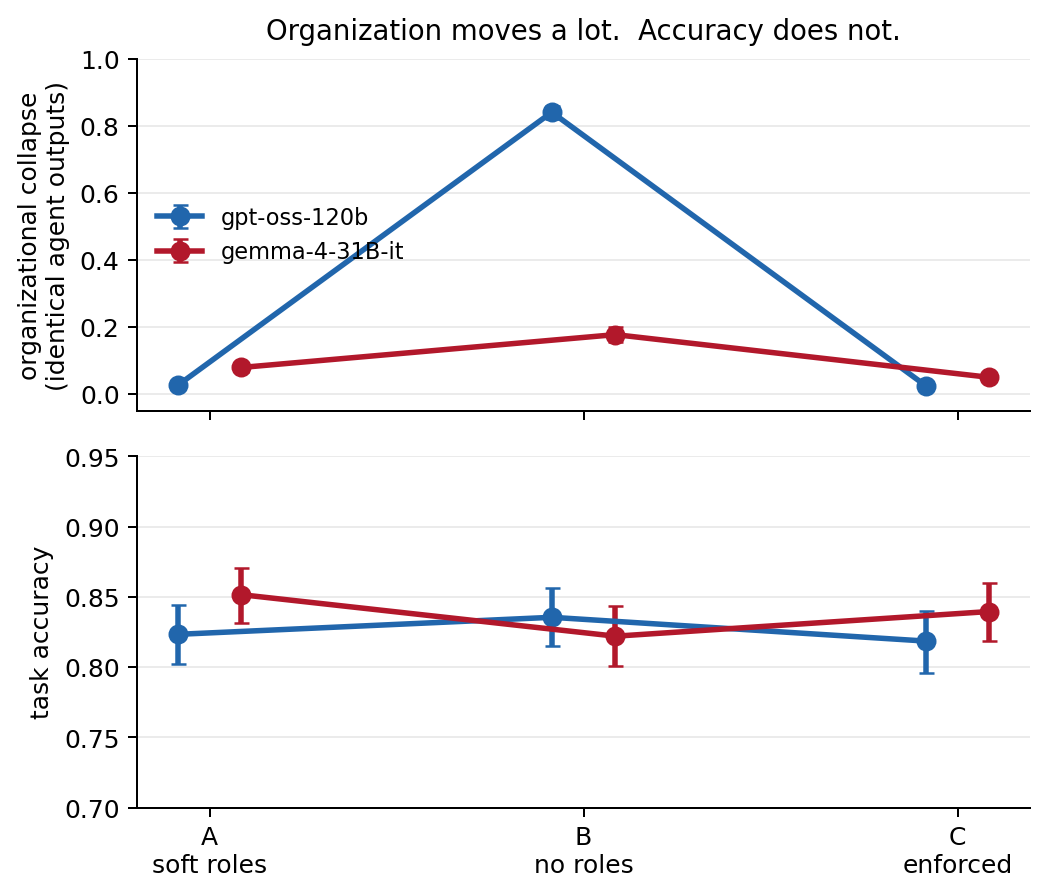
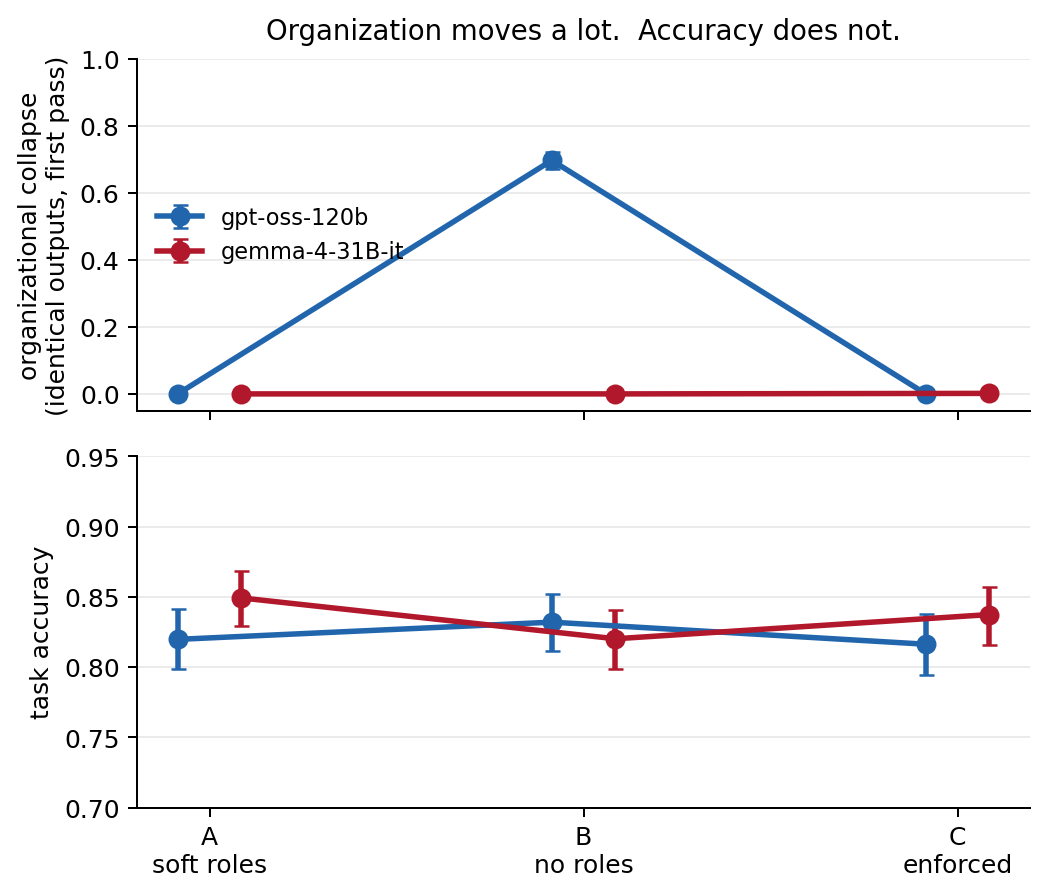
OVERLAP: fourth group paper 2607.15388 found on the SAME corpus/actor/architecture — verified, scoped, framing constrained to the actor-dependent inversion

diff --git a/analysis/scripts/x3_functional_collapse.py b/analysis/scripts/x3_functional_collapse.py
@@ -297,6 +297,18 @@ def analyse_cycle(job: dict) -> dict:
     # ---- INERTNESS ---------------------------------------------------------
     o["exec_inert"] = int(o["new_eq_E_distinct"] == 0 and o["ans_differs_E"] == 0)
     o["rev_inert"] = int(o["new_eq_R_distinct"] == 0 and o["ans_differs_R"] == 0)
+    # DESIGN-NEUTRAL variants.  The answer clause is NOT comparable across arms:
+    # Arm A's planner prompt forbids an answer (0.0/17.3% carry one), Arm B tells
+    # every agent to emit one (~90-98%), Arm C forbids it by schema for planner
+    # and reviewer (0%).  So a no-answer-change is near-automatic in A and C and
+    # near-impossible in B, for reasons of prompt design, not behaviour.  These
+    # variants drop that clause and use only channels every arm can populate.
+    o["exec_inert_eqonly"] = int(o["new_eq_E_distinct"] == 0)
+    o["rev_inert_eqonly"] = int(o["new_eq_R_distinct"] == 0)
+    o["exec_inert_tok10"] = int((o["new_tok_E"] if o["new_tok_E"] == o["new_tok_E"] else 0) < 0.10)
+    o["rev_inert_tok10"] = int((o["new_tok_R"] if o["new_tok_R"] == o["new_tok_R"] else 0) < 0.10)
+    o["exec_inert_neutral"] = int(o["exec_inert_eqonly"] == 1 and o["exec_inert_tok10"] == 1)
+    o["rev_inert_neutral"] = int(o["rev_inert_eqonly"] == 1 and o["rev_inert_tok10"] == 1)
     o["exec_inert_strong"] = int(o["exec_inert"] == 1 and (o["new_tok_E"] or 0) < 0.05)
     o["rev_inert_strong"] = int(o["rev_inert"] == 1 and (o["new_tok_R"] or 0) < 0.05
                                 and o["has_novel_critique_R"] == 0)

diff --git a/analysis/scripts/mk_fig1_dissociation.py b/analysis/scripts/mk_fig1_dissociation.py
@@ -19,8 +19,13 @@ df = pd.DataFrame(rows)
 df["actor"] = df.actor_model.str.split("/").str[-1]
 df["c0"] = df.correct.fillna(0)
 def coll(r):
+    """PRIMARY rule: first pipeline pass only (first 3 role messages).
+    The all-message rule is confounded with trajectory length -- longer
+    trajectories get more chances to collapse, and the actors differ in
+    length. See COLLAPSE_MEASUREMENT_AUDIT.md round 2."""
     h = [m.get("response_sha256_12") for m in (r.get("messages") or [])
-         if m.get("role") in ("planner","executor","reviewer") and m.get("response_sha256_12")]
+         if m.get("role") in ("planner","executor","reviewer")
+         and m.get("response_sha256_12")][:3]
     return (len(set(h)) < len(h)) if len(h) >= 2 else np.nan
 df["collapse"] = [coll(r) for r in rows]
 
@@ -48,7 +53,7 @@ for k,a in enumerate(ACT):
         axis.errorbar(x+off, m, yerr=[lo,hi], marker="o", ms=7, lw=2.2,
                       capsize=3, color=COL[a], label=a if i==0 else None)
 
-ax[0].set_ylabel("organizational collapse\n(identical agent outputs)")
+ax[0].set_ylabel("organizational collapse\n(identical outputs, first pass)")
 ax[0].set_ylim(-0.05,1.0); ax[0].grid(alpha=.25, axis="y")
 ax[0].legend(frameon=False, fontsize=9, loc="center left")
 ax[0].set_title("Organization moves a lot.  Accuracy does not.", fontsize=11, pad=8)

diff --git a/OVERLAP_AUDIT.md b/OVERLAP_AUDIT.md
@@ -134,3 +134,68 @@ new. That is the separation.
 *observational analyses of this corpus*. A fourth observational analysis is
 thin-slicing by definition. **The controlled arms are the precondition for
 submitting, not an enhancement.**
+
+---
+
+# CRITICAL UPDATE 2026-09-29 — a FOURTH group paper on this corpus
+
+**arXiv:2607.15388 — "Precise but Uncoupled: Reviewer Precision Does Not
+Guarantee Critique Uptake in Multi-Agent Math Reasoning."**
+Yang, Jiang, Vasudevan, Yang, Zheng, Chen, Huerta, Vishwanath.
+**Verified by Master: abs page fetched, title and author list confirmed.**
+
+This was **not** in any previous overlap audit. It is the most overlapping
+artifact yet found, and it must be dealt with before novelty matters.
+
+## Why it is the closest
+
+| axis | 2607.15388 | this paper |
+|---|---|---|
+| corpus | **4,181 Omni-MATH** | same slice, subsampled |
+| actor | **gpt-oss-120b** | gpt-oss-120b + gemma-4-31B (+ Llama-3.3-70B running) |
+| architecture | **PER** and broadcast | **PER** (A/B/C/C′) |
+| logical move | **decouples a role-quality metric (reviewer precision 0.861) from task gain** | decouples a role-*organization* metric (collapse) from task gain |
+| interventions | "matched PER interventions": forced acknowledgment, guidance in solver context | role removal (B), architectural enforcement (C), context control (C′) |
+
+The shared logical move — *a role property can look good while the system does
+not benefit* — is uncomfortably close to our framing, on the same corpus and
+the same architecture.
+
+## Distinctness — the honest version
+
+| | 2607.15388 | ours |
+|---|---|---|
+| object | **critique uptake**: does a reviewer's correct criticism change the next candidate? | **organizational differentiation**: do the agents behave like distinct roles at all? |
+| manipulation | prompt-level PER variants, roles retained throughout | **roles removed entirely (B)** and **structurally enforced (C)** |
+| measurement | reviewer precision / uptake / repair rate | byte-identical output collapse, per-clause contract fidelity |
+| actors | **one** | **two, with the sign inversion between them** |
+| finding | reviewer quality ≠ system gain | **visible organization and capability dissociate in BOTH directions, and the direction depends on the actor** |
+
+**What I will NOT claim:** that "a role metric can decouple from performance" is
+novel. 2607.15388 (ours) and 2607.21627 (external, "Role Drift") both own that.
+
+**What survives:** the **sign inversion across actors** — the *more capable*
+actor collapses far more (0.698 vs 0.000 first-pass) and loses nothing, while
+the *less capable* one never collapses and still loses accuracy. Every
+capability-dependence paper found (2607.16133, 2512.08296, 2609.20804,
+2603.28990) predicts the **monotone** direction: structure helps weaker models.
+Our inversion is not predicted by any of them.
+
+## Consequence for the paper — binding
+1. **2607.15388 must be cited, in third person**, and its relationship stated
+   explicitly in Related Work. Hiding it is the fastest route to a desk reject.
+2. The paper may **not** be framed as "role property decouples from performance".
+   It must be framed as **the actor-dependent inversion**.
+3. Five artifacts now exist on this corpus (BigData resource, 2609.27822,
+   2608.14927, 2607.15388, this). **The controlled arms are not merely the
+   novelty — they are the only thing distinguishing this from a fifth slice.**
+
+## Two external papers that are direct threats
+- **2607.21627 "Role Drift"** defines drift as *"modules preserve or improve
+  end-task performance while deviating from their assigned roles"* — our half-1
+  sentence, by name. Cite it; lead with half 2 and the inversion instead.
+- **2609.05933 (EMNLP 2026)** argues reported MAS efficiency gains *"arise from
+  structural collapse... where random pruning already preserves accuracy."*
+  This is a weapon aimed at exactly our gpt-oss result. **Our defense is the
+  single-agent guard**: collapsed gpt-oss still beats its own budget-matched
+  single agent by **+0.0248 [+0.0072,+0.0424]**. That must be in the paper.
